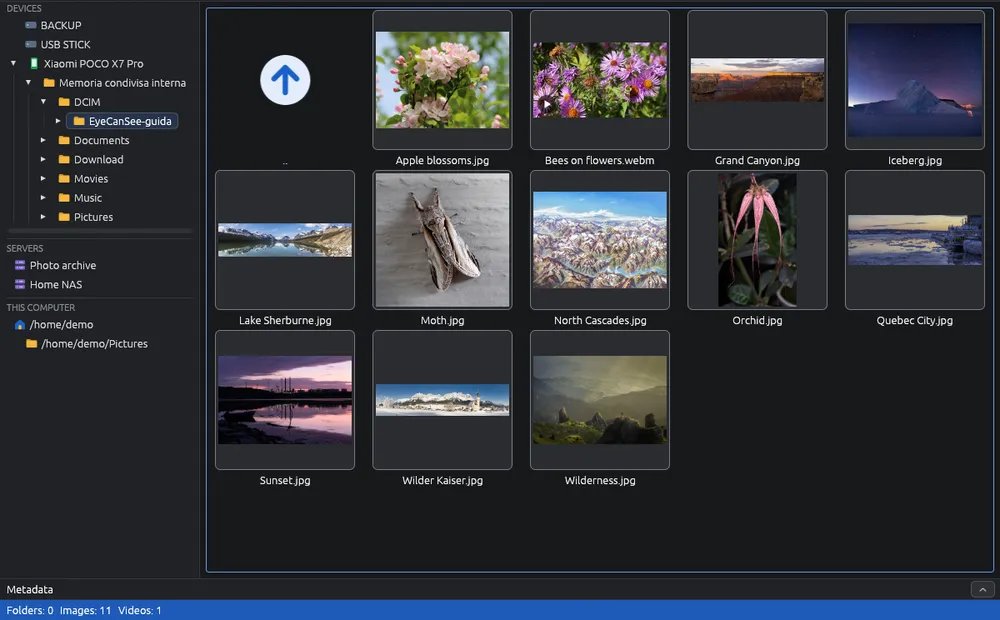
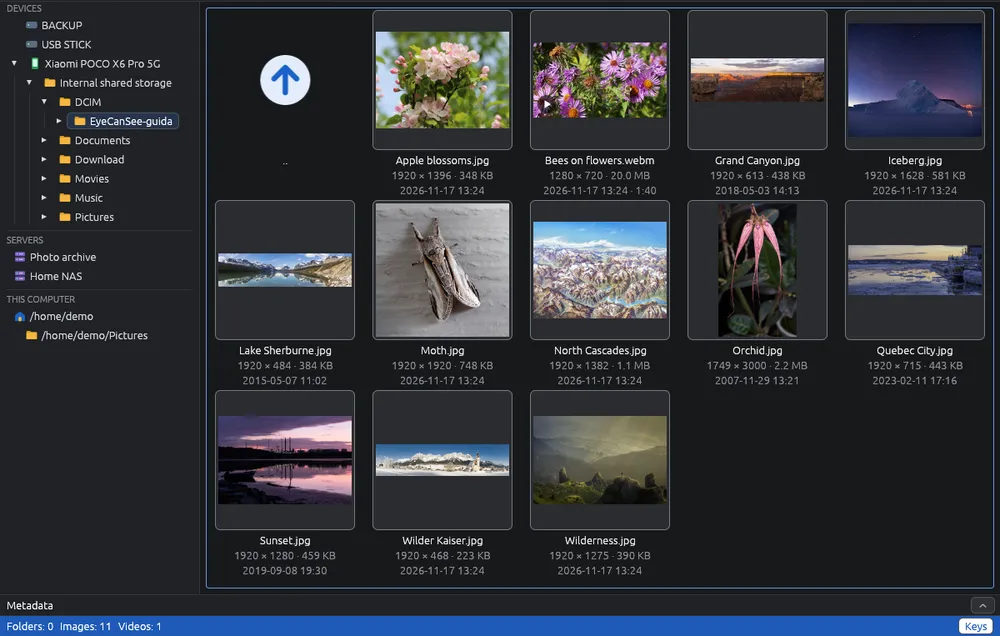
Guide pictures of a phone and of its trash strip taken again
- The phone's storage is now called "Internal shared storage": the scenes
  open it by that name instead of "interna".
- The toolbar is on two rows: the phone in the Devices block, the Open the
  trash button and both crops are 31 points lower, so the address bar (with
  the phone's serial number) stays out.
- phone: a window 50 points taller, so that the third row of thumbnails
  shows with the data under it instead of being cut.
- Feature `shots`: the tree hides the folders off the way to the demo home
  only in "This computer"; on a phone, whose root is "" too, it hid the
  storage and every folder in it.

diff --git a/src/tree.rs b/src/tree.rs
@@ -448,8 +448,9 @@ impl App {
         header.body(|ui| match self.listings.get(&dir) {
             Some(Ok(listing)) => {
                 for child in listing.dirs.clone() {
+                    // Only in the tree of "This computer": a phone's or a server's root is "" too.
                     #[cfg(feature = "shots")]
-                    if crate::shots::tree_hides(&dir, &child) {
+                    if self.base == "/" && crate::shots::tree_hides(&dir, &child) {
                         continue;
                     }
                     let label = self.item_name(&child);
